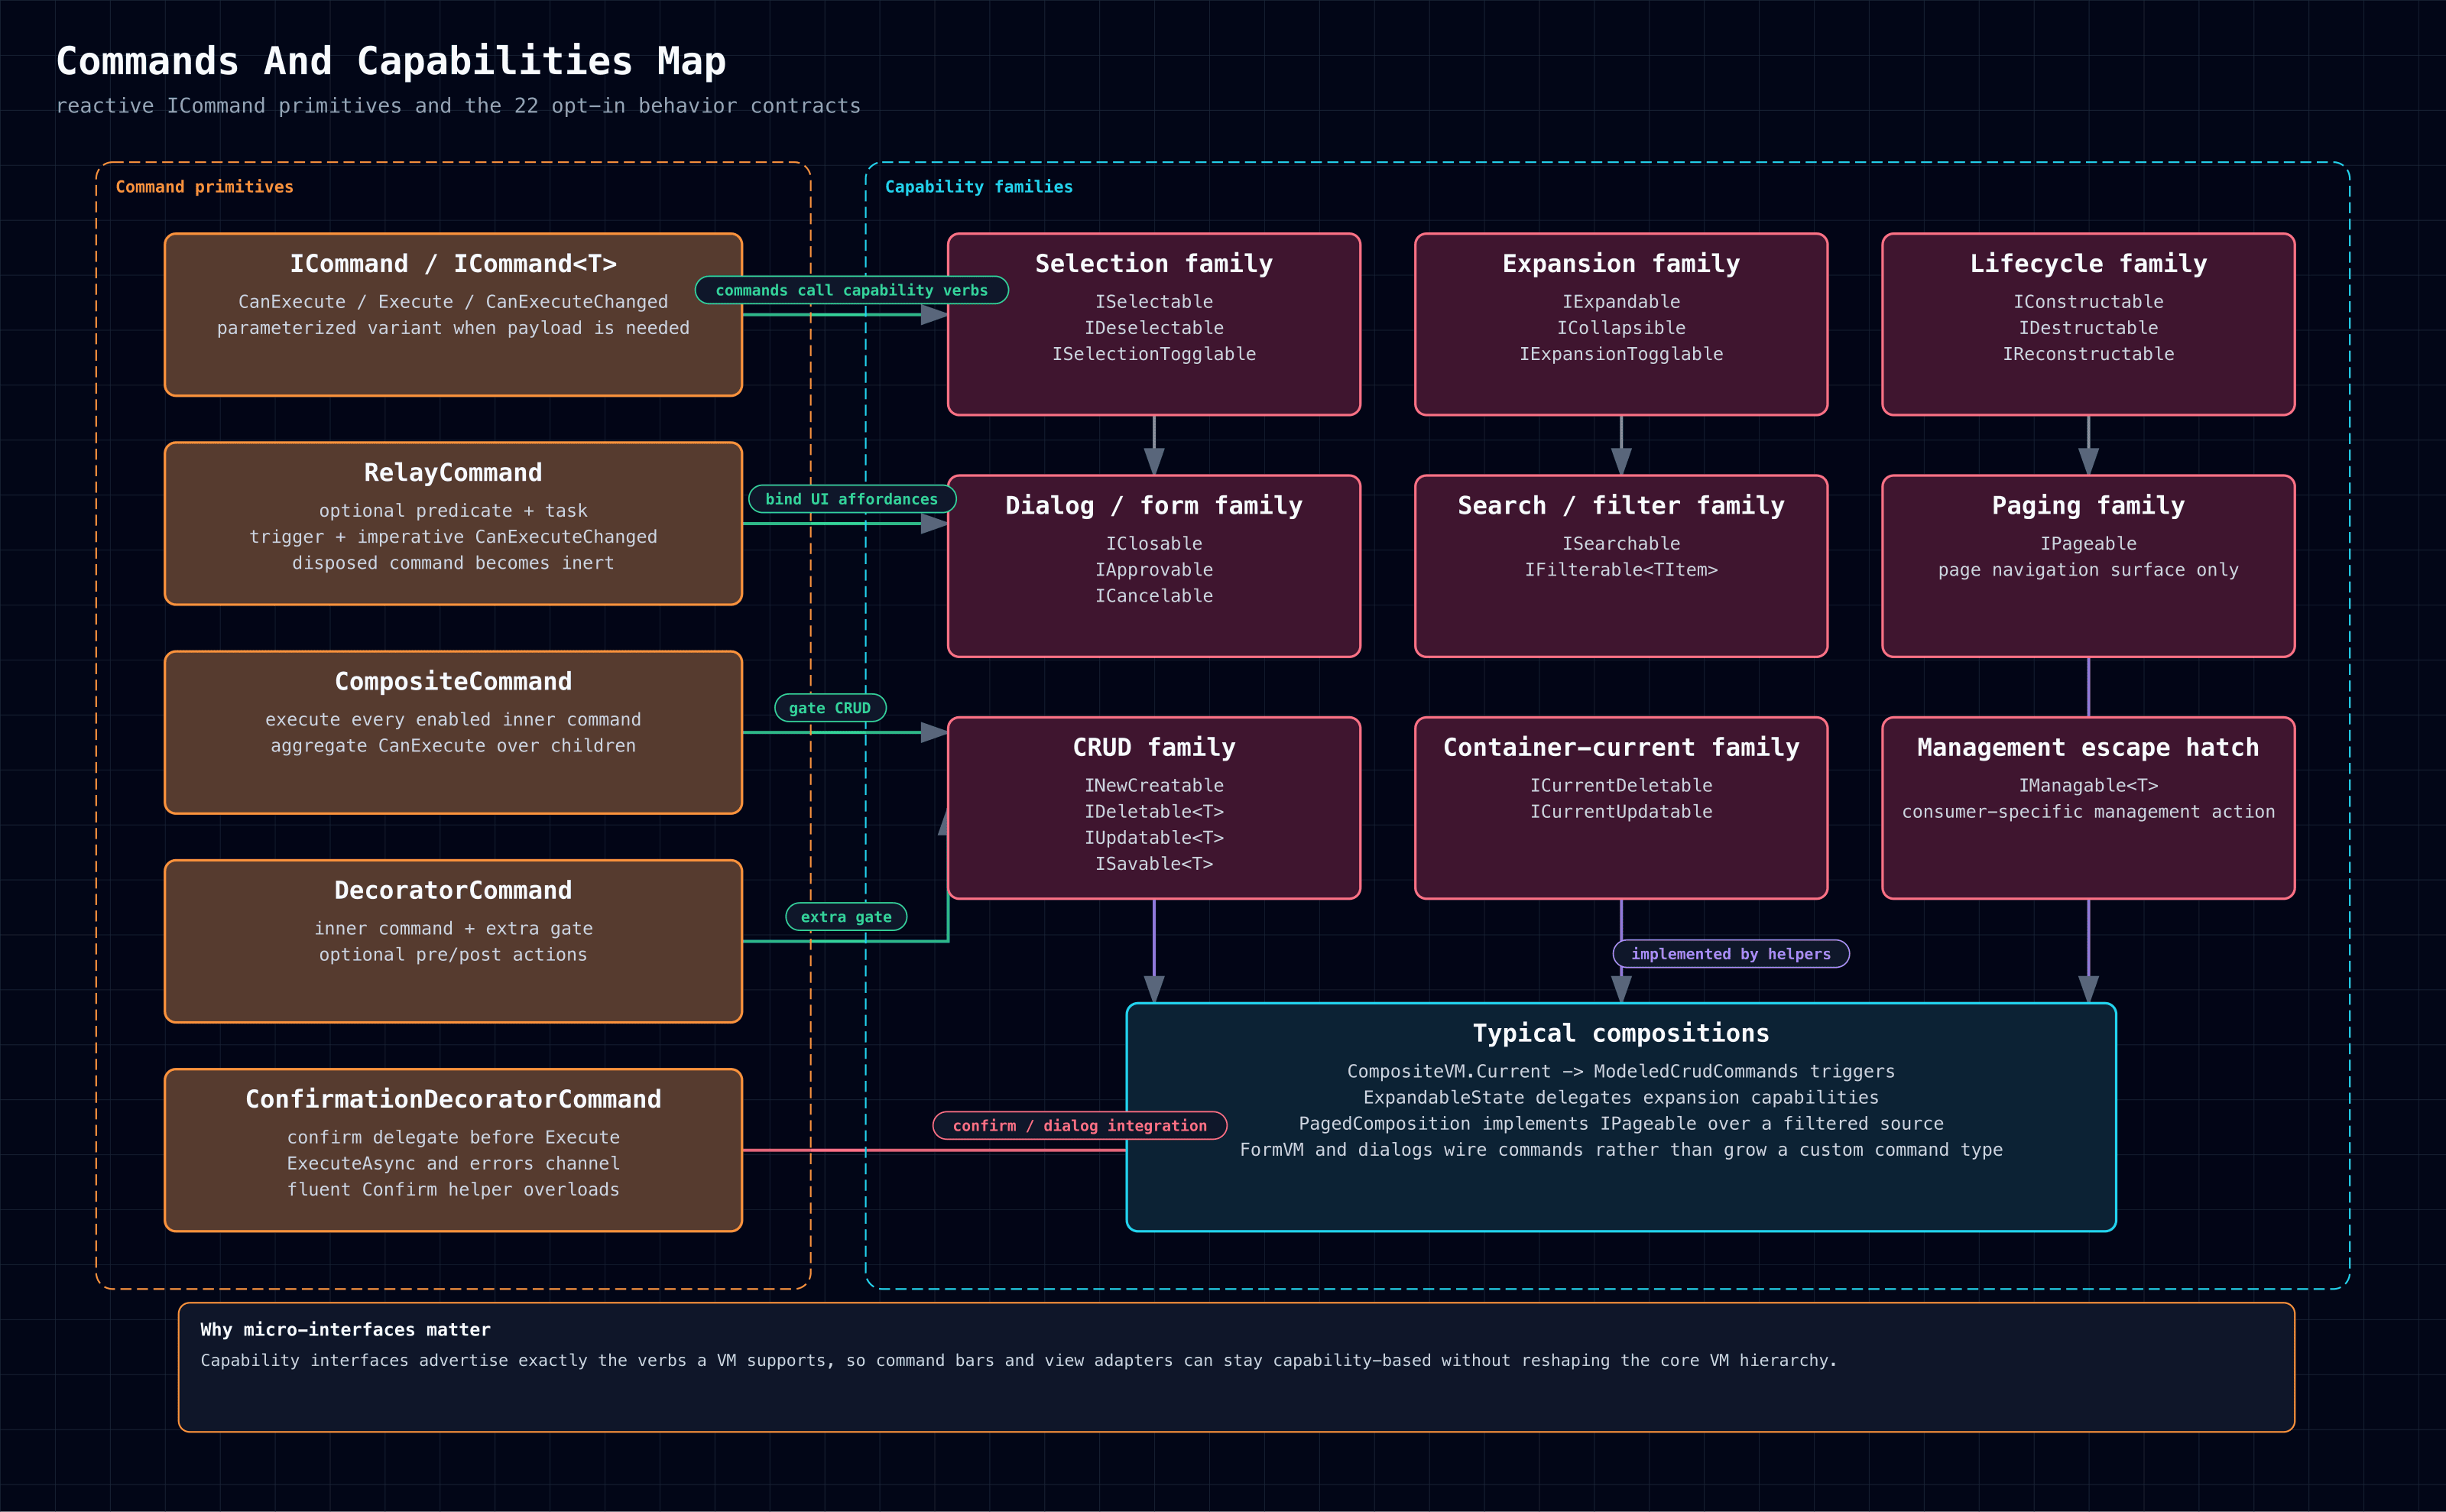
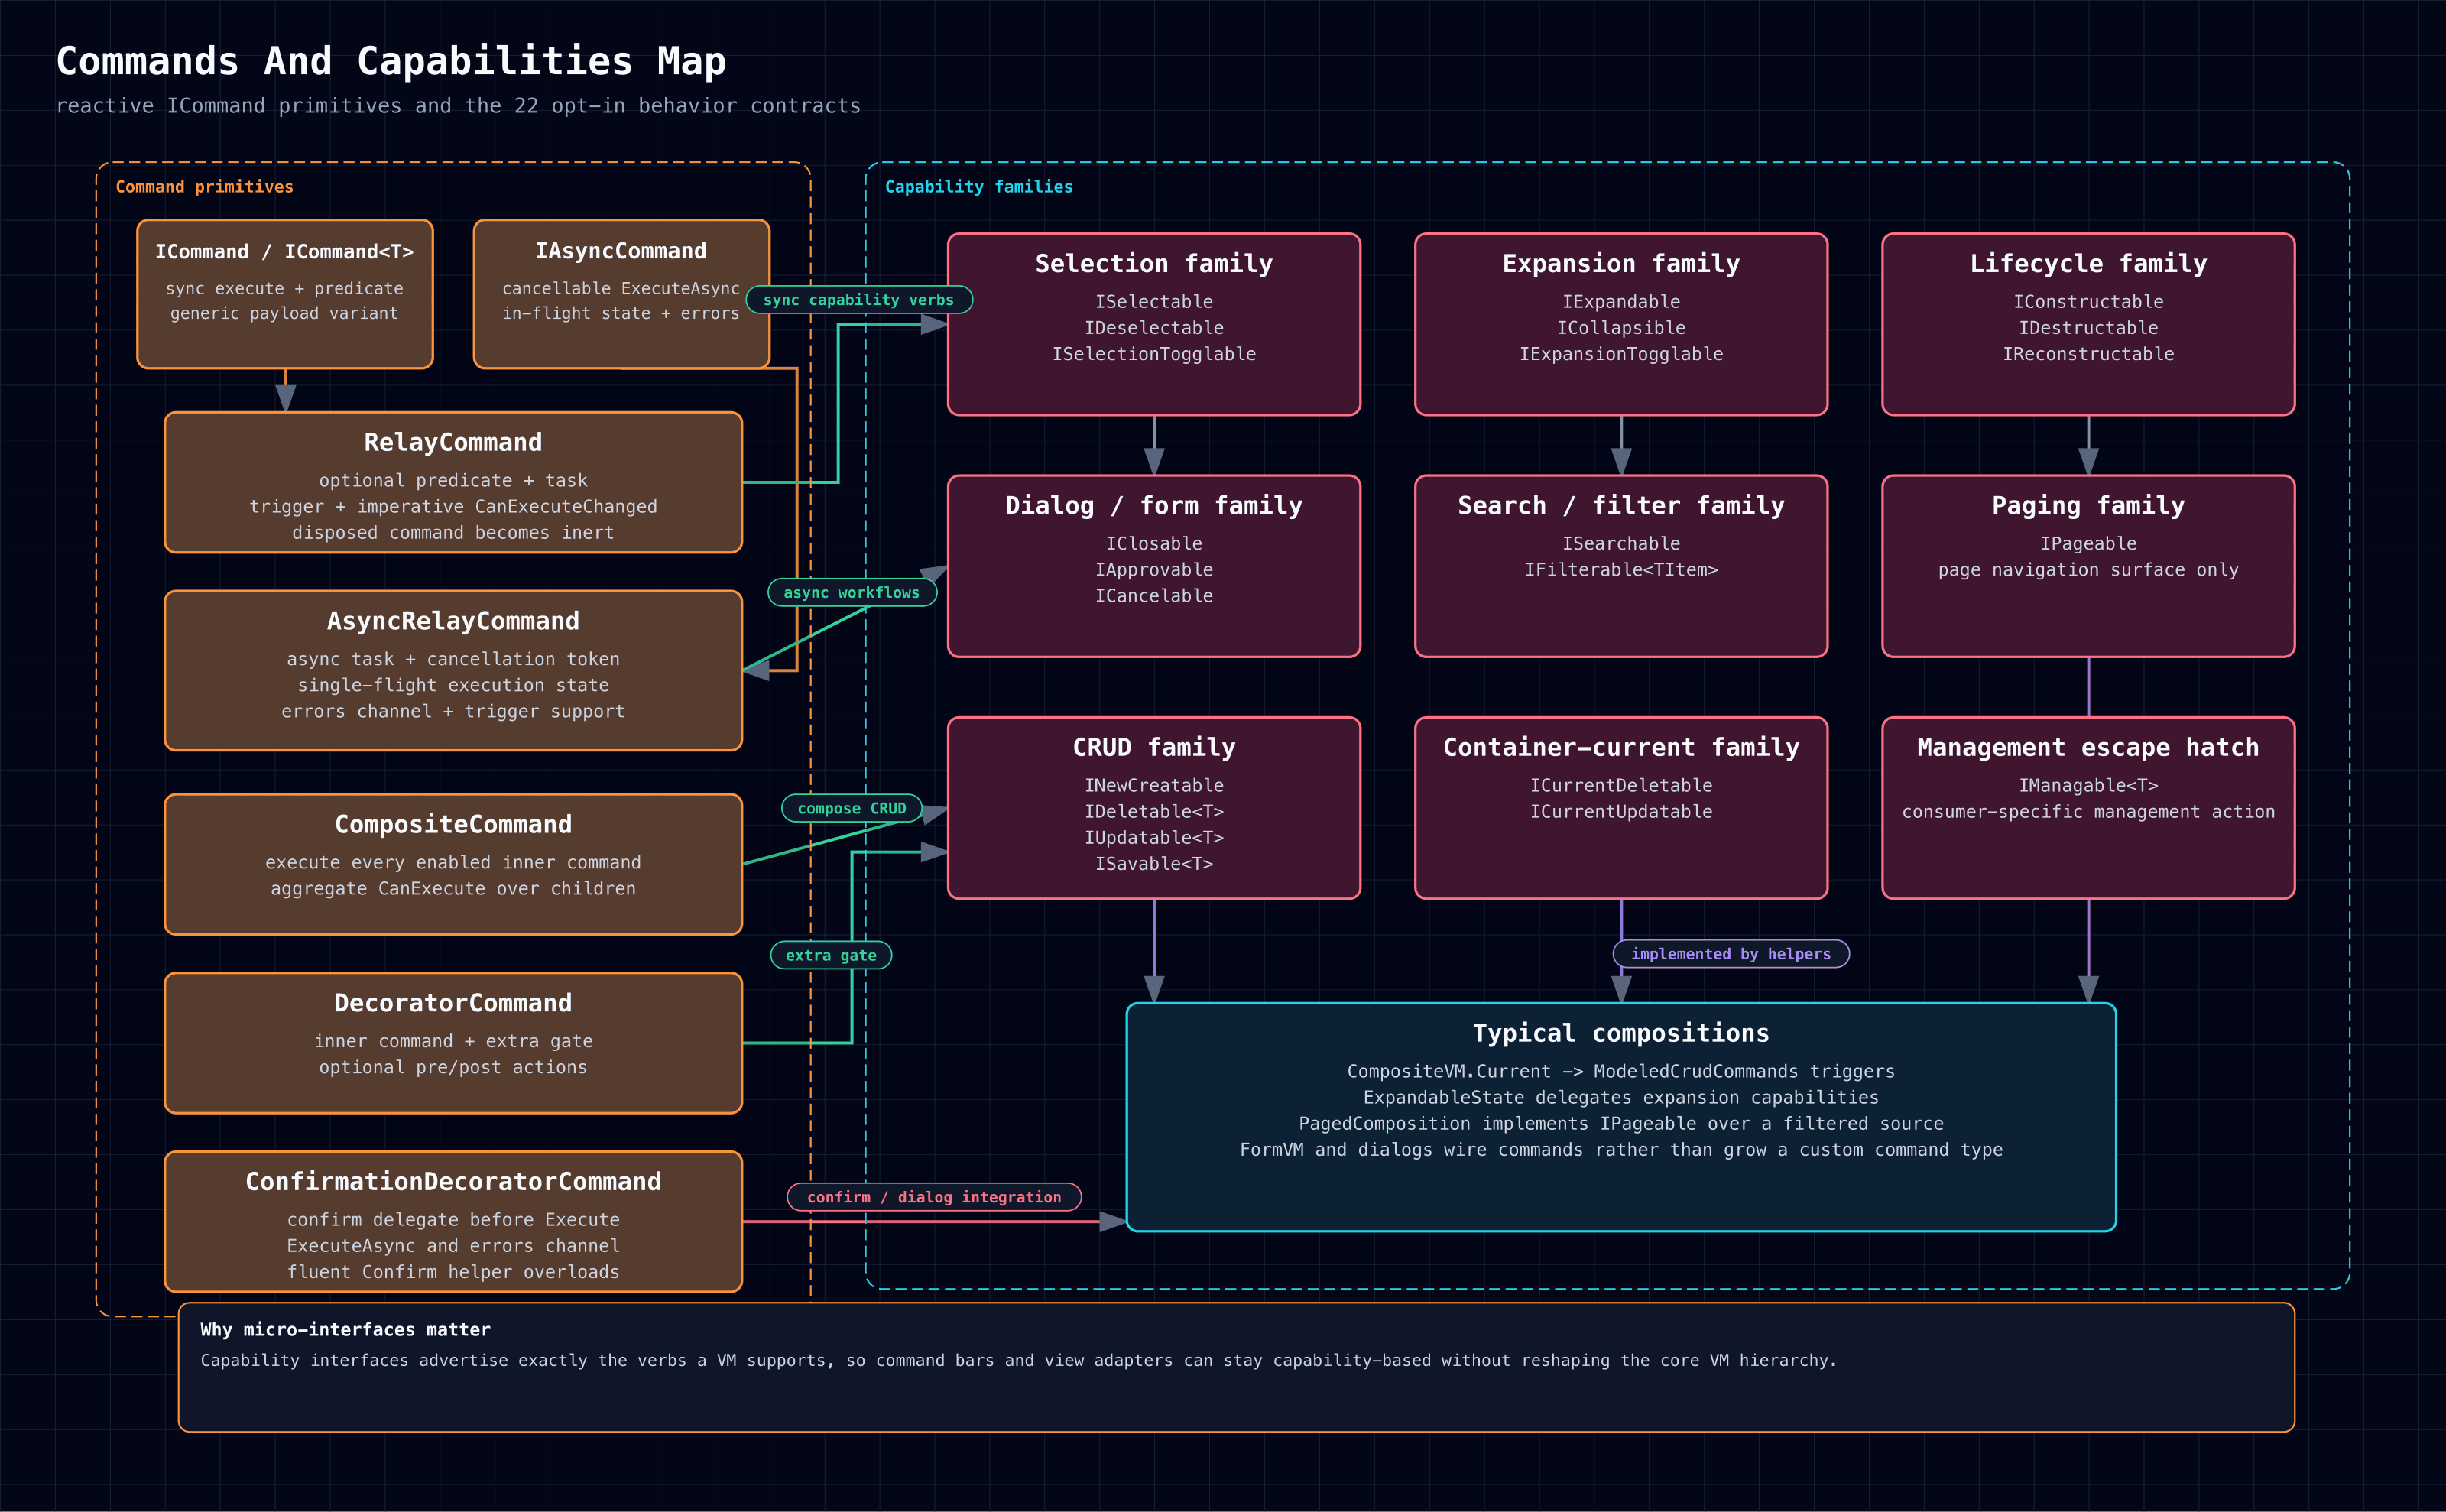
correct maintenance contracts and command diagrams

Changed region(s): [[0.0312, 0.1234, 0.4062, 0.8635], [0.3125, 0.7401, 0.5, 0.8018], [0.4375, 0.8018, 0.4688, 0.8327]]

diff --git a/docs/assets/diagrams/commands-capabilities.html b/docs/assets/diagrams/commands-capabilities.html
@@ -102,48 +102,61 @@
   <rect width="100%" height="100%" fill="url(#grid)"/>
   <text x="40" y="54" fill="#f8fafc" font-size="28" font-weight="700" text-anchor="start">Commands And Capabilities Map</text>
   <text x="40" y="82" fill="#94a3b8" font-size="15" font-weight="400" text-anchor="start">reactive ICommand primitives and the 22 opt-in behavior contracts</text>
-  <polyline points="540,229 690,229" fill="none" stroke="#34d399" stroke-width="2.2" marker-end="url(#arrowhead)"/>
-<polyline points="540,381 690,381" fill="none" stroke="#34d399" stroke-width="2.2" marker-end="url(#arrowhead)"/>
-<polyline points="540,533 690,533" fill="none" stroke="#34d399" stroke-width="2.2" marker-end="url(#arrowhead)"/>
-<polyline points="540,685 690,685 690,588" fill="none" stroke="#34d399" stroke-width="2.2" marker-end="url(#arrowhead)"/>
-<polyline points="540,837 1030,837" fill="none" stroke="#fb7185" stroke-width="2.2" marker-end="url(#arrowhead)"/>
+  <polyline points="208,268 208,300" fill="none" stroke="#fb923c" stroke-width="2.2" marker-end="url(#arrowhead)"/>
+<polyline points="452,268 580,268 580,488 540,488" fill="none" stroke="#fb923c" stroke-width="2.2" marker-end="url(#arrowhead)"/>
+<polyline points="540,351 610,351 610,236 690,236" fill="none" stroke="#34d399" stroke-width="2.2" marker-end="url(#arrowhead)"/>
+<polyline points="540,488 690,412" fill="none" stroke="#34d399" stroke-width="2.2" marker-end="url(#arrowhead)"/>
+<polyline points="540,629 690,588" fill="none" stroke="#34d399" stroke-width="2.2" marker-end="url(#arrowhead)"/>
+<polyline points="540,759 620,759 620,620 690,620" fill="none" stroke="#34d399" stroke-width="2.2" marker-end="url(#arrowhead)"/>
+<polyline points="540,889 820,889" fill="none" stroke="#fb7185" stroke-width="2.2" marker-end="url(#arrowhead)"/>
 <polyline points="1180,654 1180,730" fill="none" stroke="#a78bfa" stroke-width="2.2" marker-end="url(#arrowhead)"/>
 <polyline points="1520,478 1520,730" fill="none" stroke="#a78bfa" stroke-width="2.2" marker-end="url(#arrowhead)"/>
 <polyline points="840,654 840,730" fill="none" stroke="#a78bfa" stroke-width="2.2" marker-end="url(#arrowhead)"/>
 <polyline points="1520,302 1520,346" fill="none" stroke="#94a3b8" stroke-width="2.2" marker-end="url(#arrowhead)"/>
 <polyline points="1180,302 1180,346" fill="none" stroke="#94a3b8" stroke-width="2.2" marker-end="url(#arrowhead)"/>
 <polyline points="840,302 840,346" fill="none" stroke="#94a3b8" stroke-width="2.2" marker-end="url(#arrowhead)"/>
-<rect x="70" y="118" width="520" height="820" rx="12" fill="rgba(2, 6, 23, 0.12)" stroke="#fb923c" stroke-width="1.2" stroke-dasharray="8 4"/>
+<rect x="70" y="118" width="520" height="840" rx="12" fill="rgba(2, 6, 23, 0.12)" stroke="#fb923c" stroke-width="1.2" stroke-dasharray="8 4"/>
 <text x="84" y="140" fill="#fb923c" font-size="12" font-weight="700" text-anchor="start">Command primitives</text>
 <rect x="630" y="118" width="1080" height="820" rx="12" fill="rgba(2, 6, 23, 0.12)" stroke="#22d3ee" stroke-width="1.2" stroke-dasharray="8 4"/>
 <text x="644" y="140" fill="#22d3ee" font-size="12" font-weight="700" text-anchor="start">Capability families</text>
-<rect x="120" y="170" width="420" height="118" rx="8" fill="#0f172a"/>
-<rect x="120" y="170" width="420" height="118" rx="8" fill="rgba(251, 146, 60, 0.3)" stroke="#fb923c" stroke-width="1.8"/>
-<text x="330" y="198" fill="#f8fafc" font-size="18" font-weight="700" text-anchor="middle">ICommand / ICommand&lt;T&gt;</text>
-<text x="330" y="224" fill="#cbd5e1" font-size="13" font-weight="400" text-anchor="middle">CanExecute / Execute / CanExecuteChanged</text>
-<text x="330" y="243" fill="#cbd5e1" font-size="13" font-weight="400" text-anchor="middle">parameterized variant when payload is needed</text>
-<rect x="120" y="322" width="420" height="118" rx="8" fill="#0f172a"/>
-<rect x="120" y="322" width="420" height="118" rx="8" fill="rgba(251, 146, 60, 0.3)" stroke="#fb923c" stroke-width="1.8"/>
-<text x="330" y="350" fill="#f8fafc" font-size="18" font-weight="700" text-anchor="middle">RelayCommand</text>
-<text x="330" y="376" fill="#cbd5e1" font-size="13" font-weight="400" text-anchor="middle">optional predicate + task</text>
-<text x="330" y="395" fill="#cbd5e1" font-size="13" font-weight="400" text-anchor="middle">trigger + imperative CanExecuteChanged</text>
-<text x="330" y="414" fill="#cbd5e1" font-size="13" font-weight="400" text-anchor="middle">disposed command becomes inert</text>
-<rect x="120" y="474" width="420" height="118" rx="8" fill="#0f172a"/>
-<rect x="120" y="474" width="420" height="118" rx="8" fill="rgba(251, 146, 60, 0.3)" stroke="#fb923c" stroke-width="1.8"/>
-<text x="330" y="502" fill="#f8fafc" font-size="18" font-weight="700" text-anchor="middle">CompositeCommand</text>
-<text x="330" y="528" fill="#cbd5e1" font-size="13" font-weight="400" text-anchor="middle">execute every enabled inner command</text>
-<text x="330" y="547" fill="#cbd5e1" font-size="13" font-weight="400" text-anchor="middle">aggregate CanExecute over children</text>
-<rect x="120" y="626" width="420" height="118" rx="8" fill="#0f172a"/>
-<rect x="120" y="626" width="420" height="118" rx="8" fill="rgba(251, 146, 60, 0.3)" stroke="#fb923c" stroke-width="1.8"/>
-<text x="330" y="654" fill="#f8fafc" font-size="18" font-weight="700" text-anchor="middle">DecoratorCommand</text>
-<text x="330" y="680" fill="#cbd5e1" font-size="13" font-weight="400" text-anchor="middle">inner command + extra gate</text>
-<text x="330" y="699" fill="#cbd5e1" font-size="13" font-weight="400" text-anchor="middle">optional pre/post actions</text>
-<rect x="120" y="778" width="420" height="118" rx="8" fill="#0f172a"/>
-<rect x="120" y="778" width="420" height="118" rx="8" fill="rgba(251, 146, 60, 0.3)" stroke="#fb923c" stroke-width="1.8"/>
-<text x="330" y="806" fill="#f8fafc" font-size="18" font-weight="700" text-anchor="middle">ConfirmationDecoratorCommand</text>
-<text x="330" y="832" fill="#cbd5e1" font-size="13" font-weight="400" text-anchor="middle">confirm delegate before Execute</text>
-<text x="330" y="851" fill="#cbd5e1" font-size="13" font-weight="400" text-anchor="middle">ExecuteAsync and errors channel</text>
-<text x="330" y="870" fill="#cbd5e1" font-size="13" font-weight="400" text-anchor="middle">fluent Confirm helper overloads</text>
+<rect x="100" y="160" width="215" height="108" rx="8" fill="#0f172a"/>
+<rect x="100" y="160" width="215" height="108" rx="8" fill="rgba(251, 146, 60, 0.3)" stroke="#fb923c" stroke-width="1.8"/>
+<text x="207" y="188" fill="#f8fafc" font-size="14.23" font-weight="700" text-anchor="middle">ICommand / ICommand&lt;T&gt;</text>
+<text x="207" y="214" fill="#cbd5e1" font-size="12" font-weight="400" text-anchor="middle">sync execute + predicate</text>
+<text x="207" y="232" fill="#cbd5e1" font-size="12" font-weight="400" text-anchor="middle">generic payload variant</text>
+<rect x="345" y="160" width="215" height="108" rx="8" fill="#0f172a"/>
+<rect x="345" y="160" width="215" height="108" rx="8" fill="rgba(251, 146, 60, 0.3)" stroke="#fb923c" stroke-width="1.8"/>
+<text x="452" y="188" fill="#f8fafc" font-size="16" font-weight="700" text-anchor="middle">IAsyncCommand</text>
+<text x="452" y="214" fill="#cbd5e1" font-size="12" font-weight="400" text-anchor="middle">cancellable ExecuteAsync</text>
+<text x="452" y="232" fill="#cbd5e1" font-size="12" font-weight="400" text-anchor="middle">in-flight state + errors</text>
+<rect x="120" y="300" width="420" height="102" rx="8" fill="#0f172a"/>
+<rect x="120" y="300" width="420" height="102" rx="8" fill="rgba(251, 146, 60, 0.3)" stroke="#fb923c" stroke-width="1.8"/>
+<text x="330" y="328" fill="#f8fafc" font-size="18" font-weight="700" text-anchor="middle">RelayCommand</text>
+<text x="330" y="354" fill="#cbd5e1" font-size="13" font-weight="400" text-anchor="middle">optional predicate + task</text>
+<text x="330" y="373" fill="#cbd5e1" font-size="13" font-weight="400" text-anchor="middle">trigger + imperative CanExecuteChanged</text>
+<text x="330" y="392" fill="#cbd5e1" font-size="13" font-weight="400" text-anchor="middle">disposed command becomes inert</text>
+<rect x="120" y="430" width="420" height="116" rx="8" fill="#0f172a"/>
+<rect x="120" y="430" width="420" height="116" rx="8" fill="rgba(251, 146, 60, 0.3)" stroke="#fb923c" stroke-width="1.8"/>
+<text x="330" y="458" fill="#f8fafc" font-size="18" font-weight="700" text-anchor="middle">AsyncRelayCommand</text>
+<text x="330" y="484" fill="#cbd5e1" font-size="13" font-weight="400" text-anchor="middle">async task + cancellation token</text>
+<text x="330" y="503" fill="#cbd5e1" font-size="13" font-weight="400" text-anchor="middle">single-flight execution state</text>
+<text x="330" y="522" fill="#cbd5e1" font-size="13" font-weight="400" text-anchor="middle">errors channel + trigger support</text>
+<rect x="120" y="578" width="420" height="102" rx="8" fill="#0f172a"/>
+<rect x="120" y="578" width="420" height="102" rx="8" fill="rgba(251, 146, 60, 0.3)" stroke="#fb923c" stroke-width="1.8"/>
+<text x="330" y="606" fill="#f8fafc" font-size="18" font-weight="700" text-anchor="middle">CompositeCommand</text>
+<text x="330" y="632" fill="#cbd5e1" font-size="13" font-weight="400" text-anchor="middle">execute every enabled inner command</text>
+<text x="330" y="651" fill="#cbd5e1" font-size="13" font-weight="400" text-anchor="middle">aggregate CanExecute over children</text>
+<rect x="120" y="708" width="420" height="102" rx="8" fill="#0f172a"/>
+<rect x="120" y="708" width="420" height="102" rx="8" fill="rgba(251, 146, 60, 0.3)" stroke="#fb923c" stroke-width="1.8"/>
+<text x="330" y="736" fill="#f8fafc" font-size="18" font-weight="700" text-anchor="middle">DecoratorCommand</text>
+<text x="330" y="762" fill="#cbd5e1" font-size="13" font-weight="400" text-anchor="middle">inner command + extra gate</text>
+<text x="330" y="781" fill="#cbd5e1" font-size="13" font-weight="400" text-anchor="middle">optional pre/post actions</text>
+<rect x="120" y="838" width="420" height="102" rx="8" fill="#0f172a"/>
+<rect x="120" y="838" width="420" height="102" rx="8" fill="rgba(251, 146, 60, 0.3)" stroke="#fb923c" stroke-width="1.8"/>
+<text x="330" y="866" fill="#f8fafc" font-size="18" font-weight="700" text-anchor="middle">ConfirmationDecoratorCommand</text>
+<text x="330" y="892" fill="#cbd5e1" font-size="13" font-weight="400" text-anchor="middle">confirm delegate before Execute</text>
+<text x="330" y="911" fill="#cbd5e1" font-size="13" font-weight="400" text-anchor="middle">ExecuteAsync and errors channel</text>
+<text x="330" y="930" fill="#cbd5e1" font-size="13" font-weight="400" text-anchor="middle">fluent Confirm helper overloads</text>
 <rect x="690" y="170" width="300" height="132" rx="8" fill="#0f172a"/>
 <rect x="690" y="170" width="300" height="132" rx="8" fill="rgba(136, 19, 55, 0.4)" stroke="#fb7185" stroke-width="1.8"/>
 <text x="840" y="198" fill="#f8fafc" font-size="18" font-weight="700" text-anchor="middle">Selection family</text>
@@ -206,16 +219,16 @@
 <rect x="130" y="948" width="1540" height="94" rx="8" fill="rgba(15, 23, 42, 0.94)" stroke="#fb923c" stroke-width="1.2"/>
 <text x="146" y="972" fill="#f8fafc" font-size="13" font-weight="700" text-anchor="start">Why micro-interfaces matter</text>
 <text x="146" y="994" fill="#cbd5e1" font-size="12" font-weight="400" text-anchor="start">Capability interfaces advertise exactly the verbs a VM supports, so command bars and view adapters can stay capability-based without reshaping the core VM hierarchy.</text>
-<rect x="506" y="201" width="228" height="20" rx="10" fill="#0f172a" stroke="#34d399" stroke-width="1"/>
-<text x="620" y="215" fill="#34d399" font-size="11" font-weight="700" text-anchor="middle">commands call capability verbs</text>
-<rect x="545" y="353" width="151" height="20" rx="10" fill="#0f172a" stroke="#34d399" stroke-width="1"/>
-<text x="620" y="367" fill="#34d399" font-size="11" font-weight="700" text-anchor="middle">bind UI affordances</text>
-<rect x="564" y="505" width="81" height="20" rx="10" fill="#0f172a" stroke="#34d399" stroke-width="1"/>
-<text x="604" y="519" fill="#34d399" font-size="11" font-weight="700" text-anchor="middle">gate CRUD</text>
-<rect x="572" y="657" width="88" height="20" rx="10" fill="#0f172a" stroke="#34d399" stroke-width="1"/>
-<text x="616" y="671" fill="#34d399" font-size="11" font-weight="700" text-anchor="middle">extra gate</text>
-<rect x="679" y="809" width="214" height="20" rx="10" fill="#0f172a" stroke="#fb7185" stroke-width="1"/>
-<text x="786" y="823" fill="#fb7185" font-size="11" font-weight="700" text-anchor="middle">confirm / dialog integration</text>
+<rect x="543" y="208" width="165" height="20" rx="10" fill="#0f172a" stroke="#34d399" stroke-width="1"/>
+<text x="625" y="222" fill="#34d399" font-size="11" font-weight="700" text-anchor="middle">sync capability verbs</text>
+<rect x="559" y="421" width="123" height="20" rx="10" fill="#0f172a" stroke="#34d399" stroke-width="1"/>
+<text x="620" y="435" fill="#34d399" font-size="11" font-weight="700" text-anchor="middle">async workflows</text>
+<rect x="569" y="578" width="102" height="20" rx="10" fill="#0f172a" stroke="#34d399" stroke-width="1"/>
+<text x="620" y="592" fill="#34d399" font-size="11" font-weight="700" text-anchor="middle">compose CRUD</text>
+<rect x="561" y="685" width="88" height="20" rx="10" fill="#0f172a" stroke="#34d399" stroke-width="1"/>
+<text x="605" y="699" fill="#34d399" font-size="11" font-weight="700" text-anchor="middle">extra gate</text>
+<rect x="573" y="861" width="214" height="20" rx="10" fill="#0f172a" stroke="#fb7185" stroke-width="1"/>
+<text x="680" y="875" fill="#fb7185" font-size="11" font-weight="700" text-anchor="middle">confirm / dialog integration</text>
 <rect x="1174" y="684" width="172" height="20" rx="10" fill="#0f172a" stroke="#a78bfa" stroke-width="1"/>
 <text x="1260" y="698" fill="#a78bfa" font-size="11" font-weight="700" text-anchor="middle">implemented by helpers</text>
 </svg>
@@ -228,7 +241,7 @@
           <div class="card-dot cyan"></div>
           <h2>Command stack</h2>
         </div>
-        <ul><li>RelayCommand is the concrete workhorse.</li><li>CompositeCommand and decorator commands layer orchestration and gating without changing the ICommand contract.</li><li>Reactive triggers keep enabled state honest when predicates depend on mutable VM state.</li></ul>
+        <ul><li>ICommand and IAsyncCommand define the synchronous and cancellable asynchronous contracts.</li><li>RelayCommand and AsyncRelayCommand are the concrete execution workhorses.</li><li>CompositeCommand and decorator commands layer orchestration and gating without changing the ICommand contract.</li></ul>
       </section>
       <section class="card">
         <div class="card-header">

diff --git a/docs/assets/diagrams/generate_diagrams.py b/docs/assets/diagrams/generate_diagrams.py
@@ -3237,27 +3237,37 @@ def commands_capabilities() -> Diagram:
         width=1780,
         height=1100,
         boundaries=(
-            Boundary(70, 118, 520, 820, "Command primitives", "#fb923c"),
+            Boundary(70, 118, 520, 840, "Command primitives", "#fb923c"),
             Boundary(630, 118, 1080, 820, "Capability families", "#22d3ee"),
         ),
         boxes=(
             Box(
-                120,
-                170,
-                420,
-                118,
+                100,
+                160,
+                215,
+                108,
                 "ICommand / ICommand<T>",
-                (
-                    "CanExecute / Execute / CanExecuteChanged",
-                    "parameterized variant when payload is needed",
-                ),
+                ("sync execute + predicate", "generic payload variant"),
                 "bus",
+                title_size=16,
+                line_size=12,
+            ),
+            Box(
+                345,
+                160,
+                215,
+                108,
+                "IAsyncCommand",
+                ("cancellable ExecuteAsync", "in-flight state + errors"),
+                "bus",
+                title_size=16,
+                line_size=12,
             ),
             Box(
                 120,
-                322,
+                300,
                 420,
-                118,
+                102,
                 "RelayCommand",
                 (
                     "optional predicate + task",
@@ -3268,27 +3278,40 @@ def commands_capabilities() -> Diagram:
             ),
             Box(
                 120,
-                474,
+                430,
                 420,
-                118,
+                116,
+                "AsyncRelayCommand",
+                (
+                    "async task + cancellation token",
+                    "single-flight execution state",
+                    "errors channel + trigger support",
+                ),
+                "bus",
+            ),
+            Box(
+                120,
+                578,
+                420,
+                102,
                 "CompositeCommand",
                 ("execute every enabled inner command", "aggregate CanExecute over children"),
                 "bus",
             ),
             Box(
                 120,
-                626,
+                708,
                 420,
-                118,
+                102,
                 "DecoratorCommand",
                 ("inner command + extra gate", "optional pre/post actions"),
                 "bus",
             ),
             Box(
                 120,
-                778,
+                838,
                 420,
-                118,
+                102,
                 "ConfirmationDecoratorCommand",
                 (
                     "confirm delegate before Execute",
@@ -3394,32 +3417,40 @@ def commands_capabilities() -> Diagram:
             ),
         ),
         lines=(
+            Polyline(((208, 268), (208, 300)), color="#fb923c"),
             Polyline(
-                ((540, 229), (690, 229)),
+                ((452, 268), (580, 268), (580, 488), (540, 488)),
+                color="#fb923c",
+            ),
+            Polyline(
+                ((540, 351), (610, 351), (610, 236), (690, 236)),
                 color="#34d399",
-                label="commands call capability verbs",
-                label_xy=(620, 213),
+                label="sync capability verbs",
+                label_xy=(625, 220),
             ),
             Polyline(
-                ((540, 381), (690, 381)),
+                ((540, 488), (690, 412)),
                 color="#34d399",
-                label="bind UI affordances",
-                label_xy=(620, 365),
+                label="async workflows",
+                label_xy=(620, 433),
             ),
             Polyline(
-                ((540, 533), (690, 533)), color="#34d399", label="gate CRUD", label_xy=(604, 517)
+                ((540, 629), (690, 588)),
+                color="#34d399",
+                label="compose CRUD",
+                label_xy=(620, 590),
             ),
             Polyline(
-                ((540, 685), (690, 685), (690, 588)),
+                ((540, 759), (620, 759), (620, 620), (690, 620)),
                 color="#34d399",
                 label="extra gate",
-                label_xy=(616, 669),
+                label_xy=(605, 697),
             ),
             Polyline(
-                ((540, 837), (1030, 837)),
+                ((540, 889), (820, 889)),
                 color="#fb7185",
                 label="confirm / dialog integration",
-                label_xy=(786, 821),
+                label_xy=(680, 873),
             ),
             Polyline(
                 ((1180, 654), (1180, 730)),
@@ -3450,9 +3481,9 @@ def commands_capabilities() -> Diagram:
             (
                 "Command stack",
                 (
-                    "RelayCommand is the concrete workhorse.",
+                    "ICommand and IAsyncCommand define the synchronous and cancellable asynchronous contracts.",
+                    "RelayCommand and AsyncRelayCommand are the concrete execution workhorses.",
                     "CompositeCommand and decorator commands layer orchestration and gating without changing the ICommand contract.",
-                    "Reactive triggers keep enabled state honest when predicates depend on mutable VM state.",
                 ),
             ),
             (

diff --git a/docs/assets/diagrams/test_generate_diagrams.py b/docs/assets/diagrams/test_generate_diagrams.py
@@ -176,6 +176,15 @@ class GenerateDiagramsTests(unittest.TestCase):
             capability_box.lines,
         )
 
+    def test_commands_map_includes_sync_and_async_command_contracts(self) -> None:
+        diagram = self.generator.commands_capabilities()
+        rendered_text = {text for box in diagram.boxes for text in (box.title, *box.lines)}
+
+        self.assertIn("ICommand / ICommand<T>", rendered_text)
+        self.assertIn("IAsyncCommand", rendered_text)
+        self.assertIn("RelayCommand", rendered_text)
+        self.assertIn("AsyncRelayCommand", rendered_text)
+
 
 if __name__ == "__main__":
     unittest.main()

diff --git a/docs/maintenance/2026-07-01-contract-ledger.md b/docs/maintenance/2026-07-01-contract-ledger.md
@@ -16,19 +16,19 @@ below. Live publishing remains an owner-approved release action.
 
 ## 2. Runtime and package contracts
 
-| Area               | Authoritative pin or floor                                      | Contract                                                                                                                                                                                     | Executable evidence                                                                                                           |
-| ------------------ | --------------------------------------------------------------- | -------------------------------------------------------------------------------------------------------------------------------------------------------------------------------------------- | ----------------------------------------------------------------------------------------------------------------------------- |
-| C# runtime         | `langs/csharp/Directory.Packages.props`; project lockfiles      | `System.Reactive` and `Microsoft.Reactive.Testing` are `6.1.0`; the library targets `netstandard2.0;net8.0`; both test suites execute on `net8.0;net9.0`.                                    | `dotnet restore VMx.sln --locked-mode`; Release build/test; `dotnet format --verify-no-changes --no-restore`                  |
-| Python runtime     | `langs/python/pyproject.toml`; `langs/python/uv.lock`           | Python is `>=3.10`; `reactivex>=4.0.4` is the sole reactive runtime; the committed lock fixes the CI/dev resolution while wheel metadata retains compatible dependency ranges.               | `uv sync --locked --all-extras`; pytest; Ruff check/format; `mypy --strict src/vmx`                                           |
-| Python examples    | `examples/python/**/pyproject.toml`; adjacent `uv.lock` files   | The console/Tk, Notes Showcase, and Inspector executable projects each use a committed resolution; CI rejects manifest/lock drift.                                                           | `uv sync --locked --directory <project>` followed by each project's documented run, lint, type, and test gates                |
-| Avalonia example   | Notes Showcase project and `packages.lock.json`                 | Avalonia UI/runtime packages resolve to `11.3.18`; the host consumes application/window/control, binding, dispatcher, and headless-test APIs on the Avalonia 11 line.                        | Locked restore; Release build; 152 headless tests; lock drift rejection                                                       |
-| Textual examples   | Example `pyproject.toml` and adjacent `uv.lock` files           | Textual resolves to `8.2.8`; manifests retain the compatible `>=0.80` floor while committed locks make CI and maintenance runs reproducible.                                                 | Locked sync; Notes Showcase and Inspector lint, strict type checks, tests, and smoke runs                                     |
-| TypeScript runtime | `langs/typescript/package-lock.json`; `package.json`            | Node is `>=20`; `rxjs` remains the sole reactive runtime; the package produces dual ESM/CJS output and copies shared fixtures before build/test/pack.                                        | `npm ci`; fixture sync; both typechecks; lint; build; test; lockfile audit                                                    |
-| React example      | Notes Showcase `package.json` and `package-lock.json`           | React `18.3.1`, Vite `6.4.3`, `@vitejs/plugin-react` `4.7.0`, and Testing Library `16.3.2` are the reviewed host contract. Newer major lines require an explicit host/tooling migration.     | `npm ci`; audit; typecheck; ESLint; 227 tests; production build                                                               |
-| Swift runtime      | `langs/swift/Package.swift`; `.github/workflows/swift.yml`      | Combine is the platform reactive primitive; package resources include all four fixtures; the declared Swift 5.9 floor is exercised with Xcode 15.0.1 on `macos-14` alongside `macos-latest`. | Release build and parallel tests for root and nested packages on both toolchain cells                                         |
-| Rust runtime       | `langs/rust/Cargo.toml`; `Cargo.lock`                           | `vmx-rs` is `0.22.0`, implements spec `3.20.1`, has MSRV Rust `1.88`, and the VMx-owned hot-stream facade has no `rxrust` dependency. `serde_json` is test-only.                             | `cargo fmt --check`; locked clippy, tests, docs, package, and disposable-consumer build; `cargo tree -i rxrust` must be empty |
-| Ratatui example    | TUI Showcase `Cargo.toml` and `Cargo.lock`                      | Ratatui `0.30.2` and crossterm `0.29.0` define the reviewed terminal frame, widget, layout, styling, event, and raw-mode contract on the Rust 1.88 floor.                                    | Locked format/clippy/build/test; five VM-layer tests; non-interactive `--smoke` run; `cargo audit --deny warnings`            |
-| Shared contracts   | `spec/fixtures/*.json`; flavor copies; `spec/12-conformance.md` | Runtime copies remain byte-identical and all five flavors cover every library conformance ID.                                                                                                | fixture-sync tools and `tools/check-conformance-coverage.py --require` for all five flavors                                   |
+| Area               | Authoritative pin or floor                                      | Contract                                                                                                                                                                                                                                                         | Executable evidence                                                                                                                                         |
+| ------------------ | --------------------------------------------------------------- | ---------------------------------------------------------------------------------------------------------------------------------------------------------------------------------------------------------------------------------------------------------------- | ----------------------------------------------------------------------------------------------------------------------------------------------------------- |
+| C# runtime         | `langs/csharp/Directory.Packages.props`; project lockfiles      | `System.Reactive` and `Microsoft.Reactive.Testing` are `6.1.0`; the library targets `netstandard2.0;net8.0`; both test suites execute on `net8.0;net9.0`.                                                                                                        | `dotnet restore VMx.sln --locked-mode`; Release build/test; `dotnet format --verify-no-changes --no-restore`                                                |
+| Python runtime     | `langs/python/pyproject.toml`; `langs/python/uv.lock`           | Python is `>=3.10`; `reactivex>=4.0.4` is the sole reactive runtime; the committed lock fixes the CI/dev resolution while wheel metadata retains compatible dependency ranges.                                                                                   | `uv sync --locked --all-extras`; pytest; Ruff check/format; `mypy --strict src/vmx`                                                                         |
+| Python examples    | `examples/python/**/pyproject.toml`; adjacent `uv.lock` files   | The console/Tk, Notes Showcase, and Inspector executable projects each use a committed resolution; CI rejects manifest/lock drift.                                                                                                                               | `uv sync --locked --directory <project>` followed by each project's documented run, lint, type, and test gates                                              |
+| Avalonia example   | Notes Showcase project and `packages.lock.json`                 | Avalonia UI/runtime packages resolve to `11.3.18`; the host consumes application/window/control, binding, dispatcher, and headless-test APIs on the Avalonia 11 line.                                                                                            | Locked restore; Release build; 152 headless tests; lock drift rejection                                                                                     |
+| Textual examples   | Example `pyproject.toml` and adjacent `uv.lock` files           | Textual resolves to `8.2.8`; manifests retain the compatible `>=0.80` floor while committed locks make CI and maintenance runs reproducible.                                                                                                                     | Locked sync; Notes Showcase and Inspector lint, strict type checks, tests, and smoke runs                                                                   |
+| TypeScript runtime | `langs/typescript/package-lock.json`; `package.json`            | Node is `>=20`; `rxjs` remains the sole reactive runtime; Ajv `8.20.0` validates the exported consumer-conformance schema and remains isolated from the root bundle; the package produces dual ESM/CJS output and copies shared fixtures before build/test/pack. | `npm ci`; `npm view ajv version`; fixture sync; both typechecks; lint; build; test; dist-boundary test; lockfile audit                                      |
+| React example      | Notes Showcase `package.json` and `package-lock.json`           | React `18.3.1`, Vite `6.4.3`, `@vitejs/plugin-react` `4.7.0`, and Testing Library `16.3.2` are the reviewed host contract. Newer major lines require an explicit host/tooling migration.                                                                         | `npm ci`; audit; typecheck; ESLint; 227 tests; production build                                                                                             |
+| Swift runtime      | `langs/swift/Package.swift`; `.github/workflows/swift.yml`      | Combine is the platform reactive primitive; package resources include all four fixtures; the declared Swift 5.9 floor is exercised with Xcode 15.0.1 on `macos-14` alongside `macos-latest`.                                                                     | Release build and parallel tests for root and nested packages on both toolchain cells                                                                       |
+| Rust runtime       | `langs/rust/Cargo.toml`; `Cargo.lock`                           | `vmx-rs` is `0.22.0`, implements spec `3.20.1`, and has MSRV Rust `1.88`; runtime dependencies are the current stable `serde 1.0.228` and `thiserror 2.0.18`; the VMx-owned hot-stream facade has no `rxrust` dependency, and `serde_json` is test-only.         | `cargo search <crate> --limit 1` for both runtime crates; format; locked clippy/tests/docs/package; disposable-consumer build; empty `cargo tree -i rxrust` |
+| Ratatui example    | TUI Showcase `Cargo.toml` and `Cargo.lock`                      | Ratatui `0.30.2` and crossterm `0.29.0` define the reviewed terminal frame, widget, layout, styling, event, and raw-mode contract on the Rust 1.88 floor.                                                                                                        | Locked format/clippy/build/test; five VM-layer tests; non-interactive `--smoke` run; `cargo audit --deny warnings`                                          |
+| Shared contracts   | `spec/fixtures/*.json`; flavor copies; `spec/12-conformance.md` | Runtime copies remain byte-identical and all five flavors cover every library conformance ID.                                                                                                                                                                    | fixture-sync tools and `tools/check-conformance-coverage.py --require` for all five flavors                                                                 |
 
 ## 3. Tooling and documentation contracts
 
@@ -78,14 +78,29 @@ floating APT resolutions.
 
 ## 4. Release, registry, and identity contracts
 
-| Channel     | Trigger and automation                                                                                                           | Authentication boundary                                                                                                                            | Public verification                                                                                                  |
-| ----------- | -------------------------------------------------------------------------------------------------------------------------------- | -------------------------------------------------------------------------------------------------------------------------------------------------- | -------------------------------------------------------------------------------------------------------------------- |
-| Release PRs | `release-please.yml` runs on `main`; `googleapis/release-please-action` is pinned to `45996ed1f6d02564a971a2fa1b5860e934307cf7`. | Only this workflow has `contents: write` and `pull-requests: write`; human review gates the release PR.                                            | Component-prefixed tag and release manifest agree with package/changelog versions.                                   |
-| NuGet       | C# tag jobs in `release.yml` package all public projects.                                                                        | `nuget-csharp` environment approval plus `id-token: write`; `NuGet/login` exchanges GitHub OIDC under the owner-created nuget.org policy.          | Poll nuget.org, inspect package metadata/content, and install both `net8.0` and `netstandard2.0` in fresh consumers. |
-| PyPI        | `python-v*` tag produced by release-please.                                                                                      | `pypi-python` environment approval and PyPA trusted publishing; no repository API token.                                                           | Poll PyPI JSON, install the exact wheel in a fresh environment, and verify imported version/min-spec metadata.       |
-| npm         | TypeScript tag job uses Node 24 and npm `11.5.1`.                                                                                | `npm-typescript` approval and OIDC trusted publishing; `NPM_TOKEN` is bootstrap-only.                                                              | Poll the exact version, install under Node 20 and 22, exercise exports, and require provenance metadata.             |
-| crates.io   | Rust tag job packages with the committed lock and MSRV.                                                                          | `crates-rust` approval; bootstrap token only for the first crate version, then the immutable `rust-lang/crates-io-auth-action` pin exchanges OIDC. | Poll crates.io and docs.rs, then `cargo add vmx-rs@=X.Y.Z` and run fresh MSRV/stable consumers.                      |
-| Swift       | Swift tags create GitHub releases; there is no central package upload.                                                           | GitHub release permissions and the release environment remain the trust boundary.                                                                  | Resolve the exact tag through SwiftPM and build/test a fresh consumer.                                               |
+| Channel     | Trigger and automation                                                                                                           | Authentication boundary                                                                                                                                                                         | Public verification                                                                                                  |
+| ----------- | -------------------------------------------------------------------------------------------------------------------------------- | ----------------------------------------------------------------------------------------------------------------------------------------------------------------------------------------------- | -------------------------------------------------------------------------------------------------------------------- |
+| Release PRs | `release-please.yml` runs on `main`; `googleapis/release-please-action` is pinned to `45996ed1f6d02564a971a2fa1b5860e934307cf7`. | Only this workflow has `contents: write` and `pull-requests: write`; human review gates the release PR.                                                                                         | Component-prefixed tag and release manifest agree with package/changelog versions.                                   |
+| NuGet       | C# tag jobs in `release.yml` package all public projects.                                                                        | `nuget-csharp` environment approval plus `id-token: write`; `NuGet/login` exchanges GitHub OIDC under the owner-created nuget.org policy.                                                       | Poll nuget.org, inspect package metadata/content, and install both `net8.0` and `netstandard2.0` in fresh consumers. |
+| PyPI        | `python-v*` tag produced by release-please.                                                                                      | `pypi-python` environment approval and PyPA trusted publishing; no repository API token.                                                                                                        | Poll PyPI JSON, install the exact wheel in a fresh environment, and verify imported version/min-spec metadata.       |
+| npm         | TypeScript tag job uses Node 24 and npm `11.5.1`.                                                                                | `npm-typescript` approval and OIDC trusted publishing; `NPM_TOKEN` is bootstrap-only.                                                                                                           | Poll the exact version, install under Node 20 and 22, exercise exports, and require provenance metadata.             |
+| crates.io   | Rust tag job packages with the committed lock and MSRV.                                                                          | `crates-rust` approval; bootstrap token only for the first crate version, then the immutable `rust-lang/crates-io-auth-action` pin exchanges OIDC.                                              | Poll crates.io and docs.rs, then `cargo add vmx-rs@=X.Y.Z` and run fresh MSRV/stable consumers.                      |
+| Swift       | Swift tags create GitHub releases; there is no central package upload.                                                           | The tag job has job-scoped `contents: write` and no protected environment; main ancestry, dual-tag equality, version parity, builds, tests, and a fresh public consumer are the trust boundary. | Resolve the exact tag through SwiftPM and build/test a fresh consumer.                                               |
+
+### 4.1 Live GitHub control state
+
+The following owner-controlled settings were read through the GitHub API on
[phone redacted]. They are deployment prerequisites or repository-policy gaps, not
+source-code secrets, and maintenance must not silently claim that they are
+configured:
+
+| Control                          | Observed state                                                                                                                                                                      | Required follow-up                                                                                                                        |
+| -------------------------------- | ----------------------------------------------------------------------------------------------------------------------------------------------------------------------------------- | ----------------------------------------------------------------------------------------------------------------------------------------- |
+| `nuget-csharp`                   | The environment exists with a required reviewer and tag policy, but has no `NUGET_USER` secret.                                                                                     | Add the nuget.org profile name only after its trusted-publishing policy is ready; C# publication is blocked until then.                   |
+| `pypi-python`                    | The environment has a required reviewer, but `prevent_self_review` is `false` and no branch/tag deployment policy is configured.                                                    | Disable self-review and restrict deployment to the intended immutable Python release tags before the next upload.                         |
+| `npm-typescript` / `crates-rust` | Both environments have required reviewers and tag policies; neither has a bootstrap token.                                                                                          | This is correct only after first publication and trusted-publisher setup; otherwise the first registry publication remains owner-blocked. |
+| `gitflow` ruleset                | `main` and `develop` reject deletion/non-fast-forward updates and require PRs, but require zero approvals, zero status checks, no code-owner review, and no resolved conversations. | Select and enforce the repository's actual CI/review policy before relying on “protected branch” claims.                                  |
+| Actions defaults                 | Default workflow permissions are `write`, and workflows may approve pull requests.                                                                                                  | Change the repository default to read-only and disallow workflow PR approval after confirming no workflow depends on the broader default. |
 
 ## 5. Revalidation checklist
 
@@ -101,4 +116,6 @@ floating APT resolutions.
 Local Swift tests are unavailable when only Command Line Tools are selected;
 macOS CI with full Xcode is authoritative. Registry credentials, environment
 approvals, trusted-publisher policies, and first-publication bootstrap steps are
-owner-controlled and must never be inferred, bypassed, or recorded in logs.
+owner-controlled and must never be inferred, bypassed, or recorded in logs. The
+live-state gaps in §4.1 remain explicit external prerequisites until the owner
+changes and revalidates them.